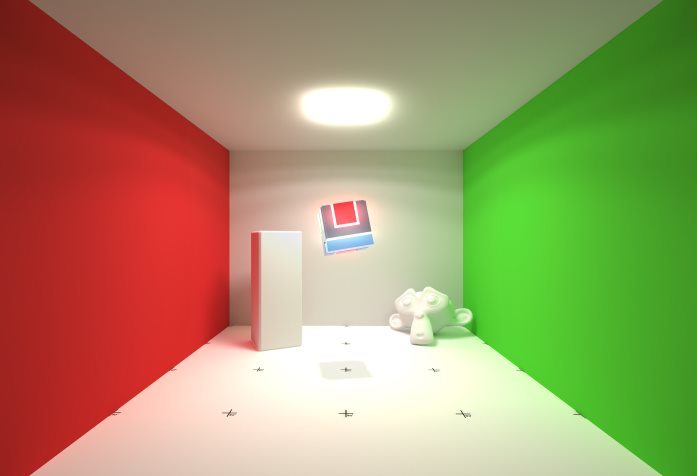
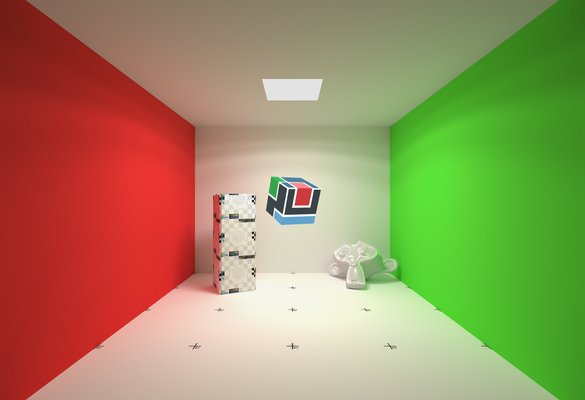
readme

diff --git a/README.md b/README.md
@@ -1,7 +1,10 @@
-# Cornell box
-This is just a simple kind-of cornell box, deserve as making quick tests, oriented 3D realtime engine, especially BabylonJS.
+# WebGL Cornell box for BabylonJS
+
+This is just a simple kind-of cornell box, deserve as making quick tests inside 3D realtime engine BabylonJS.
 
 ![screenshot](README/screenshot.jpg)
 
-You can view a live demo on [my website](https://www.nothing-is-3d.com/data/medias/folio/3drealtime/cornellBox/), or on the [BabylonJS playground](https://www.babylonjs-playground.com/#J5E230%2311).
+You can view a live demo on [my website](https://www.nothing-is-3d.com/data/medias/folio/3drealtime/cornellBox/), showing some different kind of exported files, or on the [BabylonJS playground](https://www.babylonjs-playground.com/#J5E230#165).
+
+Of course, feel free to do whatever you want with these assets.
 
